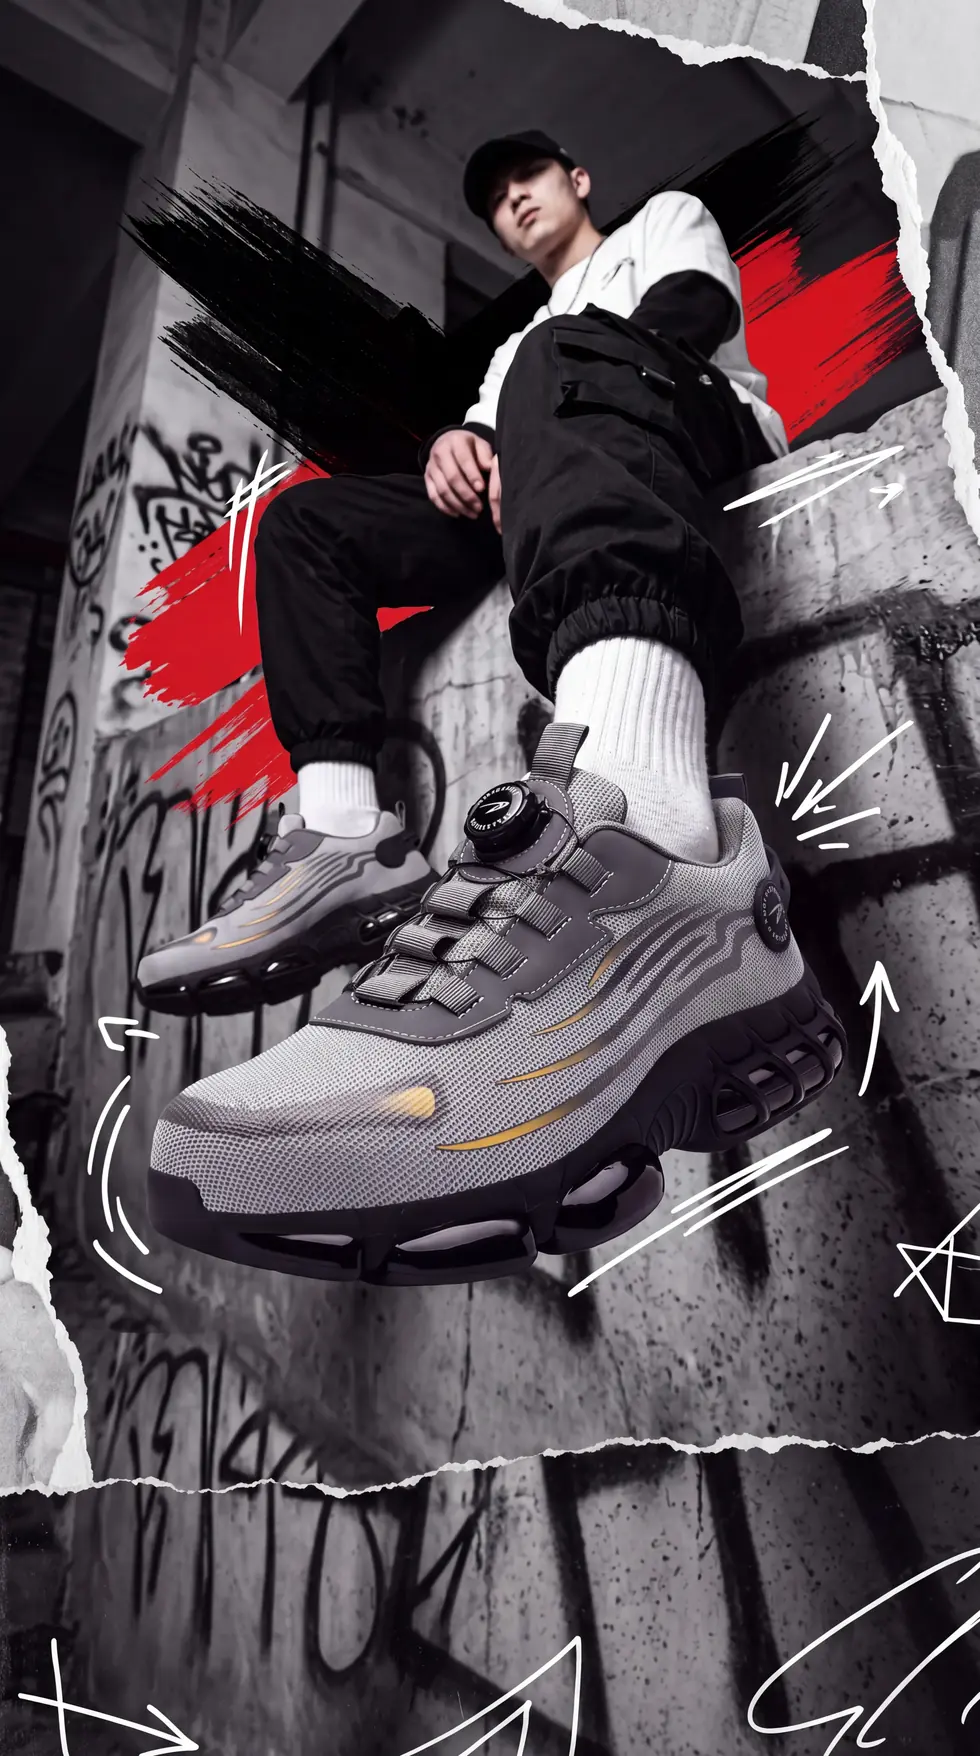
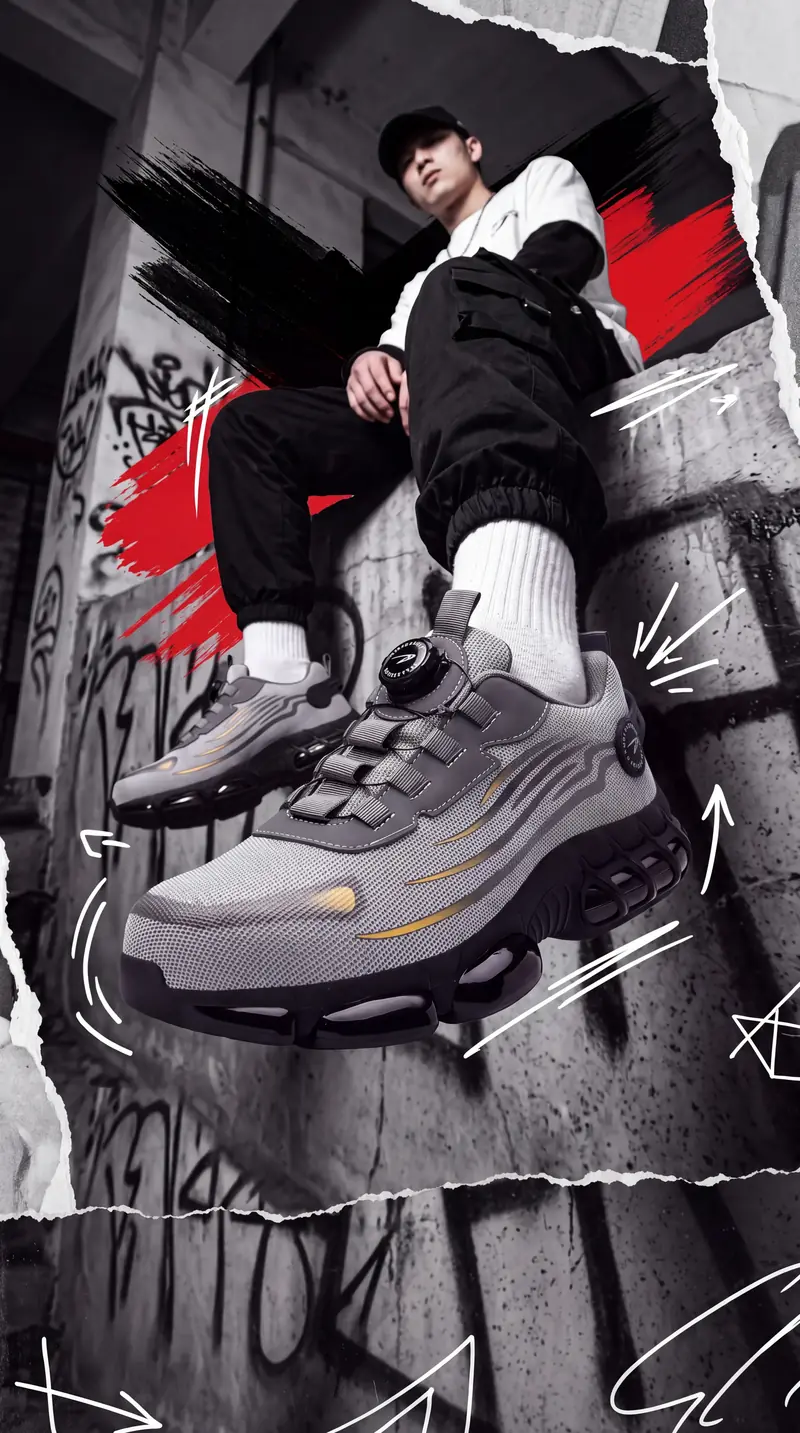
Final scene: remove per-frame scroll work, lighter frames, transform-based slide, grey reset before the video returns, slight closing-video zoom

Changed region(s): [[0.5312, 0.5834, 0.5625, 0.6141], [0.5, 0.522, 0.5312, 0.5527], [0.4375, 0.5527, 0.4688, 0.5834]]

diff --git a/index.html b/index.html
@@ -103,9 +103,12 @@
       visibility: hidden;
       opacity: 1;
       pointer-events: none;
-      transition: opacity 200ms ease-out;
+      transition: opacity 200ms ease-out, transform .6s ease;
       background: #000;
     }
+
+    /* the closing video is nudged in a touch so its last frame matches the collage */
+    #frame-container.is-final-scene { transform: scale(1.055); }
 
     #frame-container.is-fading { opacity: 0; }
 
@@ -1163,10 +1166,15 @@
       height: 100%;
       overflow: hidden;
       opacity: 0;
-      transition: opacity .3s ease;
+      visibility: hidden; /* stops the big frames from being composited off-scene */
+      transition: opacity .35s ease, visibility 0s linear .35s;
     }
 
-    .shoe-color-preview-section.is-visible { opacity: 1; }
+    .shoe-color-preview-section.is-visible {
+      opacity: 1;
+      visibility: visible;
+      transition: opacity .35s ease;
+    }
 
     /* the collage fills the whole scene, edge to edge */
     .shoes-image-stack {
@@ -1179,18 +1187,22 @@
 
     .shoe-variant-img {
       position: absolute;
-      z-index: 1;
       top: 0;
       left: 0;
       width: 100%;
       height: 100%;
       object-fit: cover;
       opacity: 0;
+      visibility: hidden;
       pointer-events: none;
-      transition: opacity .4s cubic-bezier(.4, 0, .2, 1);
+      transition: opacity .45s ease, visibility 0s linear .45s;
     }
 
-    .shoe-variant-img.active { opacity: 1; }
+    .shoe-variant-img.active {
+      opacity: 1;
+      visibility: visible;
+      transition: opacity .45s ease;
+    }
 
     .color-selectors-container {
       position: absolute;
@@ -1202,8 +1214,26 @@
       transform: translateX(-50%);
     }
 
+    /* wrapper carries the slide-up entrance so the button keeps its own transform */
+    .polaroid-slot {
+      display: block;
+      opacity: 0;
+      transform: translateY(160%);
+      transition: transform .55s cubic-bezier(.22, 1, .36, 1), opacity .45s ease;
+    }
+
+    .color-selectors-container.is-visible .polaroid-slot {
+      opacity: 1;
+      transform: translateY(0);
+    }
+
+    .color-selectors-container.is-visible .polaroid-slot:nth-child(1) { transition-delay: 0s, 0s; }
+    .color-selectors-container.is-visible .polaroid-slot:nth-child(2) { transition-delay: .5s, .5s; }
+    .color-selectors-container.is-visible .polaroid-slot:nth-child(3) { transition-delay: 1s, 1s; }
+
     .polaroid-selector {
       position: relative;
+      display: block;
       width: clamp(80px, 22vw, 108px);
       height: clamp(98px, 27vw, 132px);
       padding: 9px 9px 20px;
@@ -1211,23 +1241,18 @@
       background-color: #fff;
       box-shadow: 0 8px 20px rgba(0, 0, 0, .4);
       cursor: pointer;
-      /* slide-up entrance: `translate` is animated separately so the active
-         card's `transform` (lift + scale) keeps working */
-      translate: 0 145%;
-      opacity: 0;
-      filter: brightness(.62) saturate(.85);
-      transition: translate .5s cubic-bezier(.22, 1, .36, 1), opacity .5s ease,
-                  transform .25s ease, box-shadow .25s ease, filter .25s ease;
+      transition: transform .25s ease, box-shadow .25s ease;
     }
 
-    /* staggered entrance only — the cards disappear instantly when leaving */
-    .color-selectors-container.is-visible .polaroid-selector:nth-child(1) { transition-delay: 0s, 0s, 0s, 0s, 0s; }
-    .color-selectors-container.is-visible .polaroid-selector:nth-child(2) { transition-delay: .5s, .5s, 0s, 0s, 0s; }
-    .color-selectors-container.is-visible .polaroid-selector:nth-child(3) { transition-delay: 1s, 1s, 0s, 0s, 0s; }
-
-    .color-selectors-container.is-visible .polaroid-selector {
-      translate: 0 0;
+    /* dimmed overlay instead of a css filter (cheaper to composite) */
+    .polaroid-selector::after {
+      position: absolute;
+      inset: 0;
+      background: rgba(6, 7, 10, .58);
+      content: "";
       opacity: 1;
+      pointer-events: none;
+      transition: opacity .25s ease;
     }
 
     .tape-effect {
@@ -1254,10 +1279,11 @@
 
     .polaroid-selector.active {
       z-index: 2;
-      filter: none;
-      transform: translateY(-12px) scale(1.14);
+      transform: translateY(-12px) scale(1.12);
       box-shadow: 0 16px 32px rgba(0, 0, 0, .65), 0 0 0 3px #FF7A00;
     }
+
+    .polaroid-selector.active::after { opacity: 0; }
 
     .polaroid-selector:focus-visible {
       outline: 3px solid #fff;
@@ -1574,18 +1600,24 @@
           <img class="shoe-variant-img" data-color="black" src="Color%20section/assets/black.webp" alt="حذاء أمان أسود" decoding="async" loading="lazy">
 
           <div class="color-selectors-container" role="group" aria-label="اختر لون الحذاء">
-          <button class="polaroid-selector" type="button" data-target-color="blue" aria-label="اختر اللون الأزرق" aria-pressed="false">
-            <span class="tape-effect" aria-hidden="true"></span>
-            <span class="color-box blue-box"></span>
-          </button>
-          <button class="polaroid-selector active" type="button" data-target-color="grey" aria-label="اختر اللون الرمادي" aria-pressed="true">
-            <span class="tape-effect" aria-hidden="true"></span>
-            <span class="color-box grey-box"></span>
-          </button>
-          <button class="polaroid-selector" type="button" data-target-color="black" aria-label="اختر اللون الأسود" aria-pressed="false">
-            <span class="tape-effect" aria-hidden="true"></span>
-            <span class="color-box black-box"></span>
-          </button>
+            <span class="polaroid-slot">
+              <button class="polaroid-selector" type="button" data-target-color="blue" aria-label="اختر اللون الأزرق" aria-pressed="false">
+                <span class="tape-effect" aria-hidden="true"></span>
+                <span class="color-box blue-box"></span>
+              </button>
+            </span>
+            <span class="polaroid-slot">
+              <button class="polaroid-selector active" type="button" data-target-color="grey" aria-label="اختر اللون الرمادي" aria-pressed="true">
+                <span class="tape-effect" aria-hidden="true"></span>
+                <span class="color-box grey-box"></span>
+              </button>
+            </span>
+            <span class="polaroid-slot">
+              <button class="polaroid-selector" type="button" data-target-color="black" aria-label="اختر اللون الأسود" aria-pressed="false">
+                <span class="tape-effect" aria-hidden="true"></span>
+                <span class="color-box black-box"></span>
+              </button>
+            </span>
           </div>
         </div>
       </div>
@@ -2330,15 +2362,18 @@
 
     syncOrderPrice();
 
-    /* ---------- GlassSurface (React Bits) refraction port ----------
-       Builds the feImage displacement map + 3-channel feDisplacementMap chain
-       exactly like the component and wires it to backdrop-filter: url(...). */
+    /* ---------- final scene: colour switcher ----------
+       Three stacked frames cross-fade, polaroid thumbnails slide up one after
+       another, and the whole scene resets to grey before it fades out. */
     (function initColorSwitcher() {
       const section = document.querySelector('.shoe-color-preview-section');
       if (!section) return;
       const scene = section.closest('.color-section');
+      const row = section.querySelector('.color-selectors-container');
+      const frame = document.getElementById('frame-container');
       const buttons = Array.prototype.slice.call(section.querySelectorAll('.polaroid-selector'));
       const images = Array.prototype.slice.call(section.querySelectorAll('.shoe-variant-img'));
+
       const select = (color) => {
         buttons.forEach((button) => {
           const isActive = button.getAttribute('data-target-color') === color;
@@ -2353,30 +2388,54 @@
         button.addEventListener('click', () => select(button.getAttribute('data-target-color')));
       });
 
-      /* the scene (cover + collage + thumbnails) is only visible while its own
-         section sits in the viewport, so scrolling back exposes the video again
-         and hides the thumbnails right away */
-      const row = section.querySelector('.color-selectors-container');
-      const story = section.closest('#story') || window;
-      let queued = false;
-      const sync = () => {
-        queued = false;
-        const rect = section.getBoundingClientRect();
-        const viewport = window.innerHeight || 0;
-        const visible = rect.bottom > viewport * 0.25 && rect.top < viewport * 0.75;
-        row.classList.toggle('is-visible', visible);
-        section.classList.toggle('is-visible', visible);
-        scene?.classList.toggle('is-active', visible);
+      /* visibility is driven by IntersectionObserver only — no scroll listeners,
+         no layout reads per frame (that is what made scrolling heavy) */
+      let sceneOn = false;
+      let videoOn = false;
+      let fadeTimer = null;
+      const syncZoom = () => {
+        if (frame) frame.classList.toggle('is-final-scene', sceneOn || videoOn);
       };
-      const request = () => {
-        if (queued) return;
-        queued = true;
-        requestAnimationFrame(sync);
+
+      const show = () => {
+        if (fadeTimer) { window.clearTimeout(fadeTimer); fadeTimer = null; }
+        sceneOn = true;
+        section.classList.add('is-visible');
+        scene?.classList.add('is-active');
+        syncZoom();
+        row.classList.add('is-visible');
       };
-      story.addEventListener('scroll', request, { passive: true });
-      window.addEventListener('scroll', request, { passive: true });
-      window.addEventListener('resize', request);
-      sync();
+
+      const hide = () => {
+        sceneOn = false;
+        row.classList.remove('is-visible');   /* cards slide back down */
+        select('grey');                       /* colour animates back to grey */
+        if (fadeTimer) window.clearTimeout(fadeTimer);
+        fadeTimer = window.setTimeout(() => {
+          section.classList.remove('is-visible'); /* collage fades out … */
+          scene?.classList.remove('is-active');   /* … then the video shows */
+          syncZoom();
+        }, 260);
+      };
+
+      if ('IntersectionObserver' in window) {
+        const io = new IntersectionObserver((entries) => {
+          entries.forEach((entry) => (entry.isIntersecting ? show() : hide()));
+        }, { threshold: .35 });
+        io.observe(section);
+
+        /* keep the closing video slightly zoomed while its own section is up */
+        const videoSections = document.querySelectorAll('#story .section.video-section');
+        const lastVideo = videoSections[videoSections.length - 2];
+        if (lastVideo) {
+          const ioVideo = new IntersectionObserver((entries) => {
+            entries.forEach((entry) => { videoOn = entry.isIntersecting; syncZoom(); });
+          }, { threshold: .5 });
+          ioVideo.observe(lastVideo);
+        }
+      } else {
+        show();
+      }
     })();
 
     window.addEventListener('resize', resizeCanvas);
